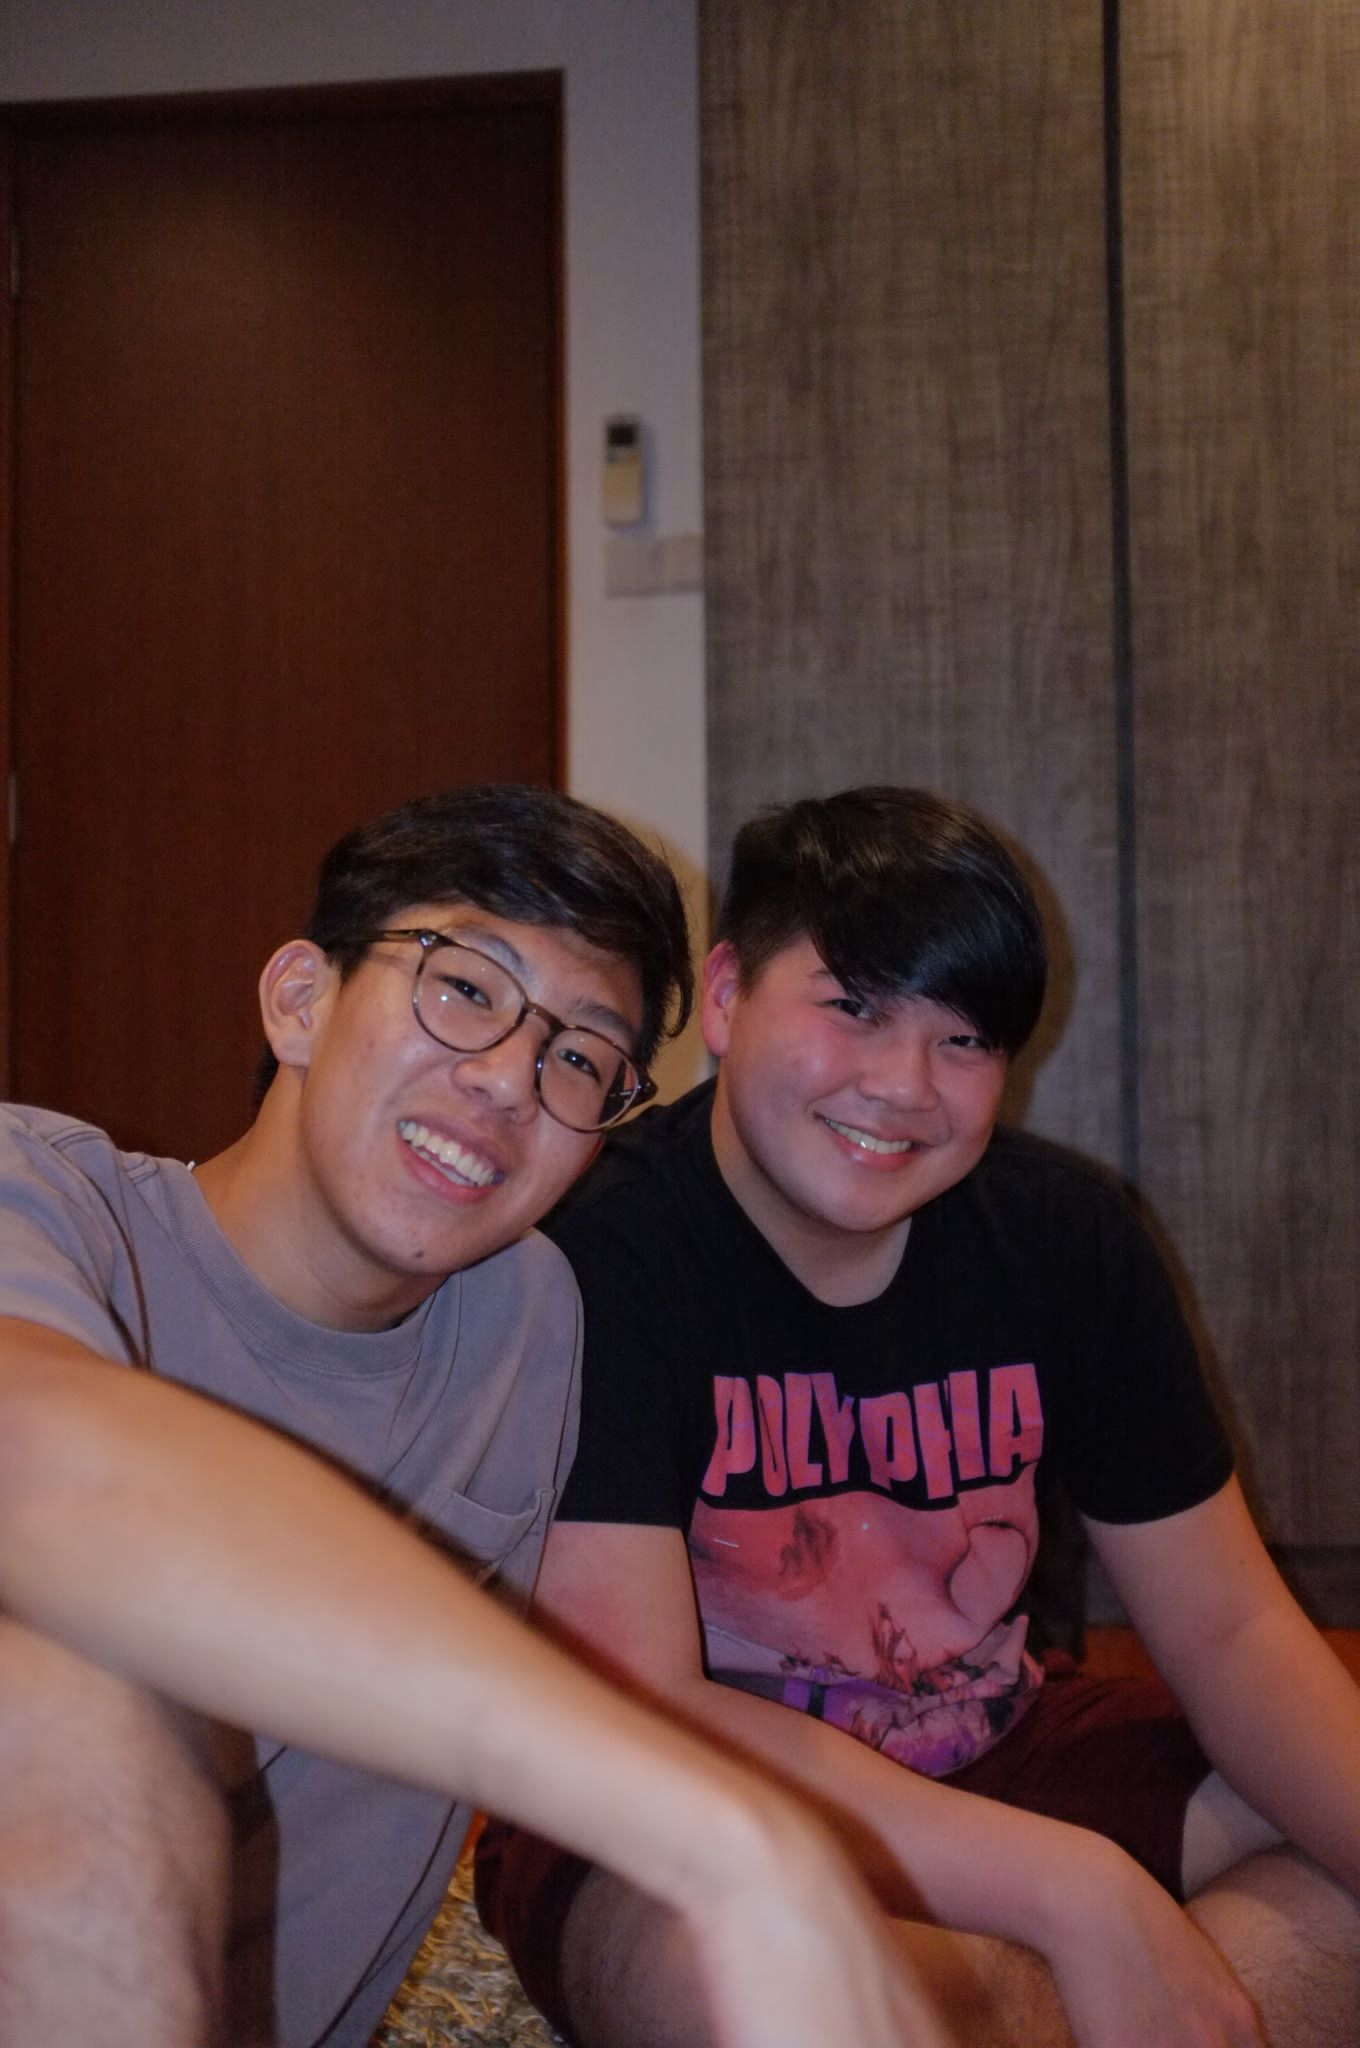
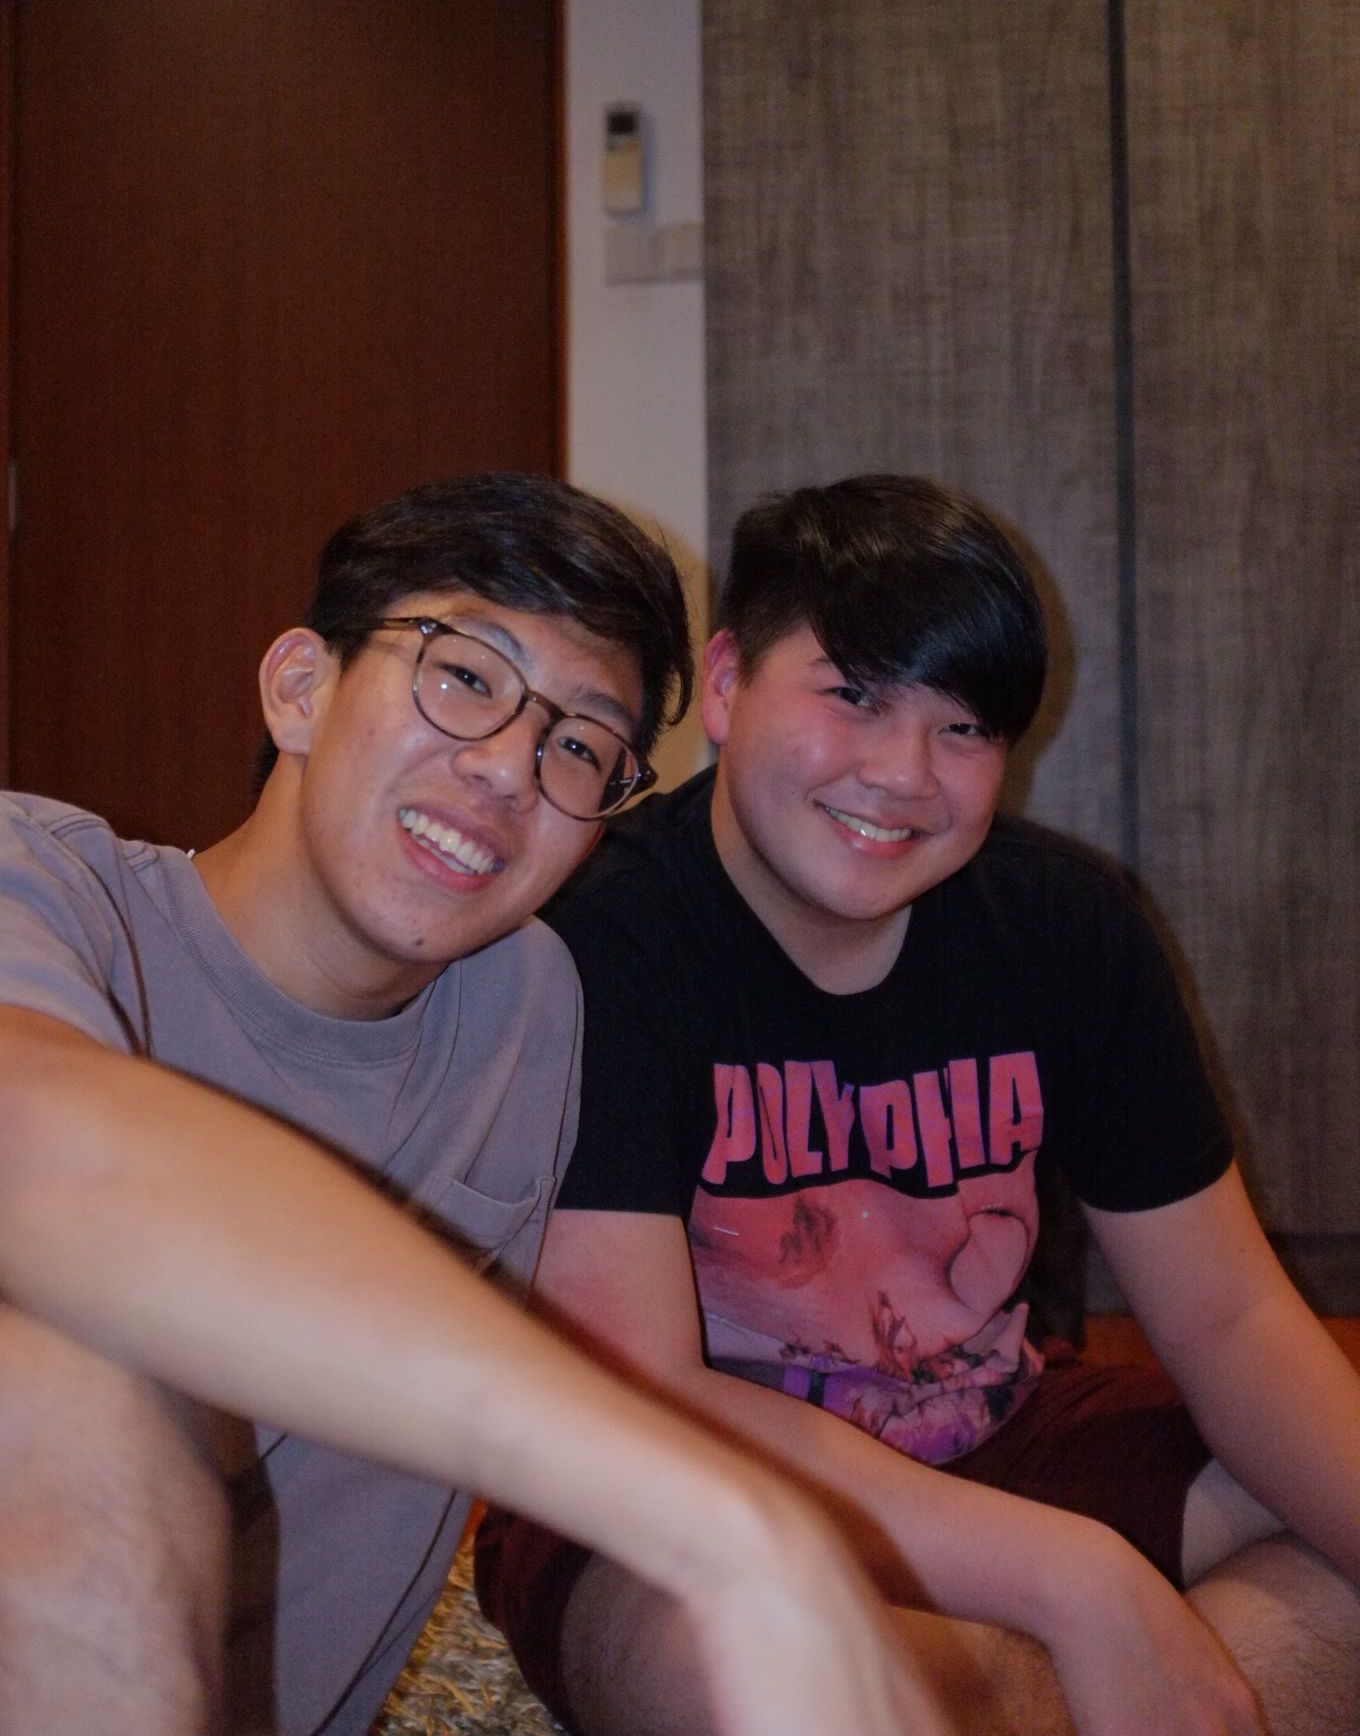
fix image sizes

diff --git a/index.html b/index.html
@@ -98,7 +98,7 @@
             <div class="row">
                 <div class="col-lg-4 mt-4">
                     <div class="card">
-                        <img class="card-img-top" src="assets/images/keagan_solo.JPG" alt="Card image" style="width:100%">
+                        <img class="card-img-top" src="assets/images/keagan_solo.JPG" alt="Card image" style="height: 390px">
                         <div class="card-body">
                             <h4 class="card-title">Keagan</h4>
                             <p class="card-text">Happy birthday bro</p>
@@ -108,26 +108,20 @@
 
                 <div class="col-lg-4 mt-4">
                     <div class="card portfolioContent">
-                        <img class="card-img-top" src="assets/images/shuheng_solo.jpeg" alt="Card image" style="width:100%">
+                        <img class="card-img-top" src="assets/images/shuheng_solo.jpeg" alt="Card image" style="height: 390px">
                         <div class="card-body">
                             <h4 class="card-title">Shu Heng</h4>
                             <p class="card-text">Happy birthday Ethan! Thanks for the past few years, atb in Australia!</p>
-                            <div class="text-center">
-                                <a href="#" class="btn btn-success">Link</a>
-                            </div>
                         </div>
                     </div>
                 </div>
 
                 <div class="col-lg-4 mt-4">
                     <div class="card portfolioContent">
-                        <img class="card-img-top" src="assets/images/film_straight.JPG" alt="Card image" style="width:100%">
+                        <img class="card-img-top" src="assets/images/james_solo.JPG" alt="Card image" style="height: 390px">
                         <div class="card-body">
-                            <h4 class="card-title">Product Landing Page</h4>
-                            <p class="card-text">Lorem Ipsum is simply dummy text of the printing and typesetting industry.</p>
-                            <div class="text-center">
-                                <a href="#" class="btn btn-success">Link</a>
-                            </div>
+                            <h4 class="card-title">James</h4>
+                            <p class="card-text">Happy birthday bro</p>
                         </div>
                     </div>
                 </div>
